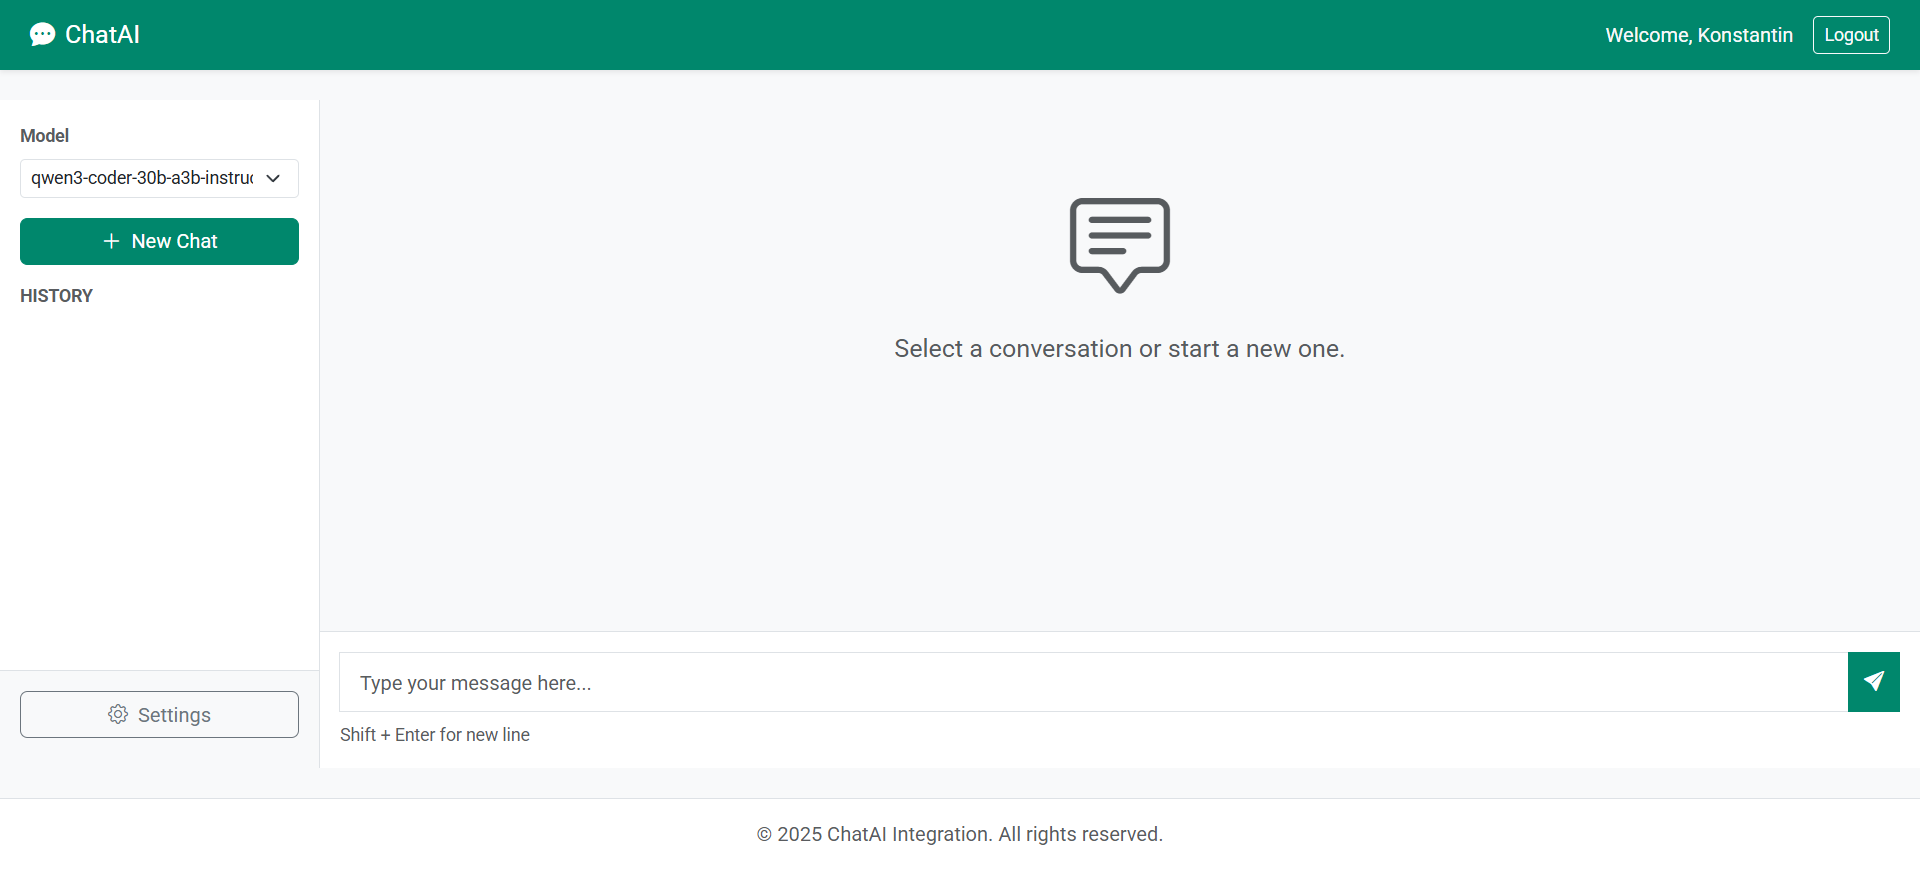
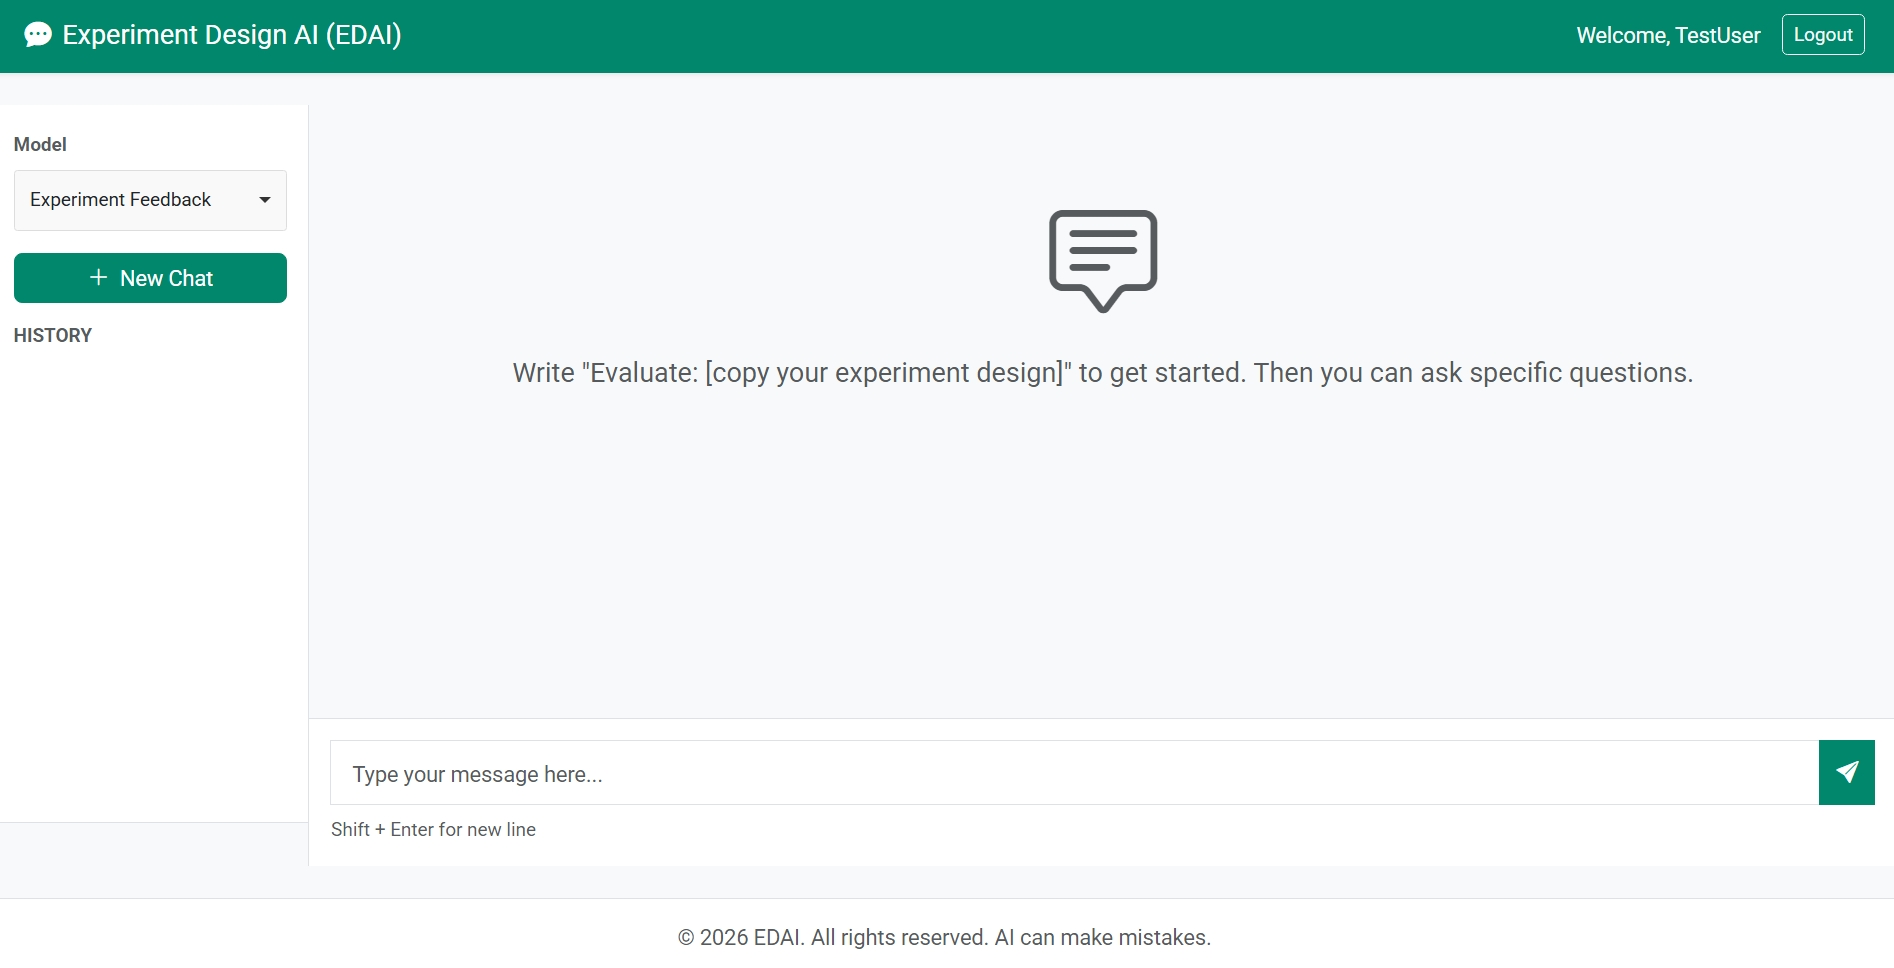
Updated Prompt, all comments in en, added license, changed readme

diff --git a/app/utils/logic_methods.py b/app/utils/logic_methods.py
@@ -5,7 +5,7 @@ from flask import current_app
 
 def DetectLanguage(user_text: str) -> int:
     
-    # 0 für Deutsch, 1 für Englisch, sonst Fehler
+    # return 0 if language = Deutsch, 1 if language = Englisch, else -1 = error
 
     try:
         lang = detect(user_text)
@@ -49,32 +49,28 @@ def GetArcanaForLanguage(language: int) -> tuple:
 
 def ChooseModel (languag: int) -> str:
 
-    # je nach Sprache bestes Model zurückgeben
-
-    # noch die entsprechenden besten Modelle auswählen !!!!!!!!!
+    # return the best model depending on language
 
     if languag == 0:
-        # bestes deutsches Modell
+        # best german Modell
         return "llama-3.1-sauerkrautlm-70b-instruct"
     else:
-        # bestes englisches Modell
+        # best englisch Modell
         return "meta-llama-3.1-8b-instruct"
 
 
 def CraftPrompt(user_text: str, language: int, req: int) -> str:
     
-    # je nach Sprache besten Prompt zurückgeben
-    # für req = 1 Bewertungsprompts, sonst nix
-    # evtl für 2/else noch anderen Prompt für bessere Antwort?
+    # build the final prompt depending on language and request type
 
     if language == 0:
-        # deutschen prompt bauen
+        # build german prompt
         if req == 1:
             final_prompt = open("data/dePrompt-Evaluate.txt", encoding="utf-8").read() + user_text
         else:
             final_prompt = open("data/dePrompt.txt", encoding="utf-8").read() + user_text
     else:
-        # englischen prompt bauen
+        # build englisch prompt
         if req == 1:
             final_prompt = open("data/enPrompt-Evaluate.txt", encoding="utf-8").read() + user_text
         else:

diff --git a/app/main/routes.py b/app/main/routes.py
@@ -202,7 +202,10 @@ def chat_stream():
             return jsonify({'error': 'Message or image is required'}), 400
 
 
-        # || Eigene Backend Logik ;) ||
+        """
+        Here the logic methods for language detection and request type detection are used.
+            these methods are defined in app/utils/logic_methods.py
+        """
 
         # 1) Language recognition (must be first to pass to DetectDiffTopic)
         lang = utils.DetectLanguage(user_message)
@@ -388,7 +391,7 @@ def get_models():
         JSON: List of available models
     """
 
-    # eigenes Modell zurückgeben
+    # Return our experiment feedback model
     return jsonify([
         {
             "id": "Experiment Feedback",
@@ -398,29 +401,6 @@ def get_models():
             "input": ["text"]
         }
     ])
-
-
-
-    # Check if models are cached in session
-    if 'models' in session:
-        return jsonify(session['models'])
-
-    try:
-        models = ChatService.get_models()
-        session['models'] = models
-        return jsonify(models)
-    except ModelAPIError as e:
-        logger.error(f"Error fetching models: {e}")
-        return jsonify({
-            "error": str(e),
-            "message": "Failed to load models"
-        }), 503
-    except Exception as e:
-        logger.exception(f"Unexpected error fetching models: {e}")
-        return jsonify({
-            "error": "Unexpected error occurred",
-            "message": "Failed to load models"
-        }), 500
 
 
 @bp.route('/update_settings', methods=['POST'])

diff --git a/README.md b/README.md
@@ -1,6 +1,6 @@
-# ChatAI - AI-Powered Chat Application
+# EDAI - Experiment Design AI
 
-A Flask-based web application for AI-powered chat interactions with support for multiple models, conversation management, and advanced features. Containerized with Docker and using PostgreSQL for data persistence.
+A Flask-based web application for AI-powered chat interactions for feedback for scientific experiment design, with conversation management and login system. Applying a RAG to specialize on experiment design evaluation. Containerized with Docker and using PostgreSQL for data persistence.
 
 <div align="center">
   <img src="repo_assets/empty_interface.png" alt="ChatAI Empty Interface" width="800"/>
@@ -8,30 +8,22 @@ A Flask-based web application for AI-powered chat interactions with support for 
 </div>
 
 <div align="center">
-  <img src="repo_assets/interface_with_message.png" alt="ChatAI Conversation" width="800"/>
-  <p><em>Rich markdown support and code highlighting</em></p>
-</div>
-
-<div align="center">
-  <img src="repo_assets/interface_models_list.png" alt="Model Selection" width="800"/>
-  <p><em>Extensive model selection with search capabilities</em></p>
+  <img src="repo_assets/login_system.png" alt="Model Selection" width="800"/>
+  <p><em>Login System with registration token</em></p>
 </div>
 
 ## 🌟 Features
 
 ### Core Functionality
-- **Multi-Model Support**: Interact with various AI models including Llama and GPT variants
 - **Real-Time Streaming**: Get responses as they're generated for a smooth experience
 - **Conversation Management**: Save, load, and delete conversation history
 - **User Authentication**: Secure login and registration with session management
-- **Image Support**: Upload and analyze images with vision-capable models
+- **RAG Technology**: Specific knowledge and evaluated example designs on exeriment designs
 
 ### Advanced Features
-- **System Instructions**: Define custom AI personas and behaviors
 - **Stop Generation**: Interrupt ongoing responses at any time
 - **Edit Messages**: Modify your previous messages and regenerate responses
 - **Regenerate Responses**: Re-run the last message to get a different answer
-- **Context Window Management**: Automatic token limit handling for long conversations
 - **Mobile Responsive**: Optimized interface for mobile and desktop devices
 
 ### Technical Features
@@ -46,7 +38,6 @@ A Flask-based web application for AI-powered chat interactions with support for 
 ## 📋 Prerequisites
 
 - Docker and Docker Compose
-- API access to AI models (e.g., SAIA, OpenAI)
 - Basic knowledge of environment variables
 
 ---
@@ -60,7 +51,7 @@ cd ChatAI
 ```
 
 ### 2. Configure Environment
-Create a `.env` file in the root directory:
+Create a `.env` file in the root directory (see `.env.example`):
 
 ```env
 # API Configuration
@@ -114,7 +105,8 @@ ChatAI/
 │   │   └── conversation_service.py  # Database operations service
 │   ├── utils/                   # Utility modules
 │   │   ├── __init__.py
-│   │   └── capabilities.py      # Model capability checker
+│   │   ├── capabilities.py      # Model capability checker
+|   |   └── logic_methods.py     # Language and topic detection and prompt building
 │   ├── static/                  # Static assets
 │   │   ├── css/
 │   │   │   └── styles.css
@@ -193,8 +185,6 @@ docker compose exec -T db psql -U chatai_user chatai_db < backup.sql
 | `FLASK_ENV` | Flask environment (development/production) | `development` |
 | `REGISTRATION_TOKEN` | Token required for user registration | *Optional* |
 
-### Model Configuration
-Available models are fetched dynamically from the API. To add or modify models, update the API endpoint or the `static/assets/models.json` file.
 
 ---
 
@@ -207,18 +197,12 @@ Available models are fetched dynamically from the API. To add or modify models, 
 4. Log in with your credentials
 
 ### Starting a Conversation
-1. Select a model from the dropdown in the sidebar
-2. Type your message in the input box at the bottom
+1. Start by writing "Evaluate" in the input box at the bottom
+2. Copy and paste your experiment design
 3. Press Enter or click the send button
 4. Watch as the AI responds in real-time
 
 ### Using Advanced Features
-
-#### System Instructions
-1. Open the Settings panel in the sidebar
-2. Enter custom instructions (e.g., "You are a Python expert")
-3. Click "Save as Default" to persist settings
-4. All new conversations will use these instructions
 
 #### Stop Generation
 - Click the red stop button that appears during response generation
@@ -332,15 +316,7 @@ docker compose logs web | grep "GET /static"
 
 ## 📊 Performance Optimization
 
-### Token Limit Management
-The application automatically manages context windows:
-- Estimates token usage for messages
-- Implements sliding window for long conversations
-- Reserves space for model responses
-- Logs token usage for monitoring
-
 ### Caching
-- Model list cached in session
 - Static assets cached by browser
 - Database query optimization with SQLAlchemy
 
@@ -386,21 +362,9 @@ pytest --cov=app tests/
 
 ---
 
-## 🤝 Contributing
-
-This is an internal project. For contributions or suggestions:
-1. Contact the project administrator
-2. Follow the existing code structure and patterns
-3. Add comprehensive error handling
-4. Document new features in code and README
-5. Test thoroughly before deployment
-
----
-
 ## 📜 License
 
-© 2025 ChatAI. All rights reserved.  
-This project is for internal use only and is not distributed externally.
+© 2026 EDAI - MIT License (Please refer to `LICENSE` File)
 
 ---
 
@@ -411,33 +375,12 @@ For access, technical issues, or questions:
 - **Documentation**: Refer to this README and inline code comments
 - **Issues**: Check application logs for detailed error messages
 
----
-
-## 🔄 Version History
-
-### v2.0.0 (Current)
-- ✨ Added stop generation functionality
-- ✨ Added message editing capability
-- ✨ Added response regeneration
-- ✨ Implemented system instructions
-- ✨ Added context window management
-- 🐛 Fixed double sidebar issue
-- 🔧 Improved mobile responsiveness
-- 🔧 Refactored service layer
-- 🔧 Enhanced error handling
-- 📝 Comprehensive code documentation
-
-### v1.0.0
-- Initial release
-- Basic chat functionality
-- User authentication
-- Conversation management
-- Docker containerization
 
 ---
 
 ## 🙏 Acknowledgments
 
+- Application is a modified version of ChatAI by Konstantin Soballa
 - Bootstrap 5 for UI framework
 - Flask and its extensions for backend
 - OpenAI API format for model integration
@@ -446,8 +389,6 @@ For access, technical issues, or questions:
 
 ---
 
-**Built with ❤ for efficient AI-powered conversations**
+## ✍ Authors
 
-## ✍ Author
-
-**Konstantin Soballa**
+**Bjarne J. Wolff, Felix Rumscheid, Adrian, Batuhan Kaya and Fernando**
